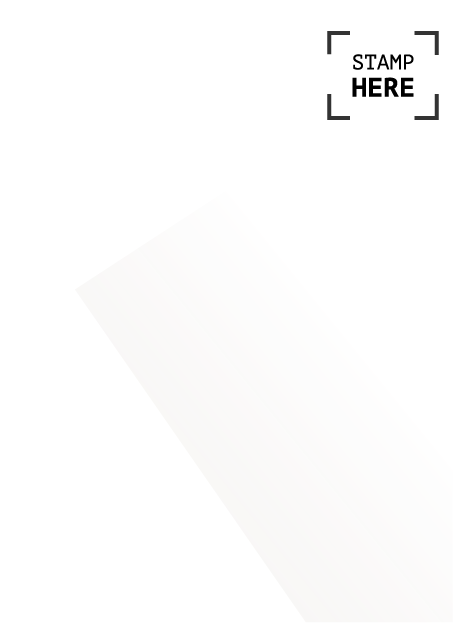
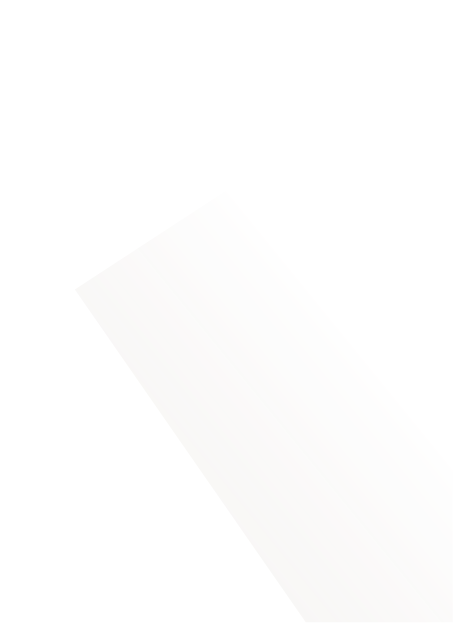
stamp mechanic working

diff --git a/public/js/ui.js b/public/js/ui.js
@@ -13,6 +13,7 @@ interact(".draggable").draggable({
   // keep the element within the area of it's parent
   modifiers: [
     interact.modifiers.restrict({
+      restriction: "parent",
       endOnly: true,
       elementRect: { top: 0, left: 0, bottom: 1, right: 1 }
     })
@@ -25,6 +26,71 @@ interact(".draggable").draggable({
   onmove: dragMoveListener,
   // call this function on every dragend event
   onend: dragEndListener
+});
+
+/* The dragging code for '.draggable' from the demo above
+ * applies to this demo as well so it doesn't have to be repeated. */
+
+// enable draggables to be dropped into this
+interact(".dropzone").dropzone({
+  // only accept elements matching this CSS selector
+  accept: ".draggable",
+  // Require a 75% element overlap for a drop to be possible
+  overlap: 0.05,
+
+  // listen for drop related events:
+
+  ondropactivate: function(event) {
+    // add active dropzone feedback
+    event.target.classList.add("drop-active");
+  },
+  ondragenter: function(event) {
+    var draggableElement = event.relatedTarget;
+    var dropzoneElement = event.target;
+
+    // feedback the possibility of a drop
+    dropzoneElement.classList.add("drop-target");
+    draggableElement.classList.add("can-drop");
+  },
+  ondragleave: function(event) {
+    // remove the drop feedback style
+    event.target.classList.remove("drop-target");
+    event.relatedTarget.classList.remove("can-drop");
+  },
+  ondrop: function(event) {
+    var real = event.relatedTarget.classList.contains("real");
+    if (real) {
+      event.target.classList.add("stamped-real");
+    } else {
+      event.target.classList.add("stamped-fake");
+    }
+
+    var files = document.querySelectorAll(".files");
+    // files.classList.add("poop");
+    console.log(files);
+    for (var i = 2; i >= 0; i--) {
+      files[i].classList.add("retract");
+    }
+  },
+  ondropdeactivate: function(event) {
+    // remove active dropzone feedback
+    event.target.classList.remove("drop-active");
+    event.target.classList.remove("drop-target");
+  }
+});
+
+interact(".drag-drop").draggable({
+  inertia: true,
+  modifiers: [
+    interact.modifiers.restrict({
+      restriction: "parent",
+      endOnly: true,
+      elementRect: { top: 0, left: 0, bottom: 1, right: 1 }
+    })
+  ],
+  autoScroll: true,
+  // dragMoveListener from the dragging demo above
+  onmove: dragMoveListener
 });
 
 function dragStartListener(event) {

diff --git a/public/css/style.css b/public/css/style.css
@@ -211,8 +211,8 @@ body {
 }
 
 .draggable.stamper {
-    width: 144px;
-    height: 246px;
+    width: 86px;
+    height: 86px;
 }
 
 .draggable .stamper {
@@ -220,16 +220,18 @@ body {
     display: flex;
     flex-direction: column;
     align-items: center;
-    height: inherit;
-    width: inherit;
+    height: 246px;
+    width: 144px;
+    left: -33%;
+    top: -206%;
 }
 .stamper + .shadow {
     height: 267px;
     width: 135px;
     position: relative;
     z-index: -1;
-    left: 7px;
-    top: -89%;
+    left: -24px;
+    top: -460%;
     background: url(/img/main/s-stamp.png);
     background-size: contain;
     background-position: center;
@@ -276,3 +278,57 @@ body {
     background-image: url(/img/main/r-stamp.png);
 }
 
+.stamp-here {
+    height: 96px;
+    width: 119px;
+    right: 33px;
+    top: 26px;
+    position: absolute;
+    background-image: url(/img/main/stamparea.png);
+    background-repeat: no-repeat;
+    background-position: center center;
+    background-size: cover;
+}
+
+.stamp-here.drop-target {
+    animation: oppulse 700ms infinite ease-in-out;
+}
+
+.stamp-here.stamped-real,
+.stamp-here.stamped-fake {
+    background-image: url(/img/main/stamparea-trans.png);
+}
+
+.stamped-real:before {
+    content: url(/img/main/real.png);
+    position: absolute;
+    right: -5%;
+    top: -6%;
+    transform: rotate(-14deg) scale(0.9);
+}
+
+.stamped-fake:before {
+    content: url(/img/main/fake.png);
+    position: absolute;
+    right: -5%;
+    top: -6%;
+    transform: rotate(-14deg) scale(0.9);
+}
+
+.files.retract {
+    animation: slide-left forwards ;
+    animation-duration: 2000ms;
+    animation-delay: 500ms;
+}
+
+@keyframes oppulse {
+    0% {opacity: 1; transform: scale(1)}
+    50% {opacity: 0.3; transform: scale(1.05)}
+    100% {opacity: 1; transform: scale(1)}
+}
+
+@keyframes slide-left {
+    0% {left: inherit;}
+    60% {left: 10%;}
+    100% {left: -60%;}
+}

diff --git a/public/index.html b/public/index.html
@@ -24,18 +24,20 @@
 
         <div class="table">
 
-            <div class="draggable manilla">
+            <div class="files draggable manilla">
                 <div class="manilla"></div>
                 <div class="shadow"></div>
             </div>
 
-            <div class="draggable archive">
+            <div class="files draggable archive">
                 <div class="archive"></div>
                 <div class="shadow"></div>
             </div>
 
-            <div class="draggable sighting">
-                <div class="sighting"></div>
+            <div class="files draggable sighting">
+                <div class="sighting">
+                    <div class="dropzone stamp-here"></div>
+                </div>
                 <div class="shadow"></div>
             </div>
             
